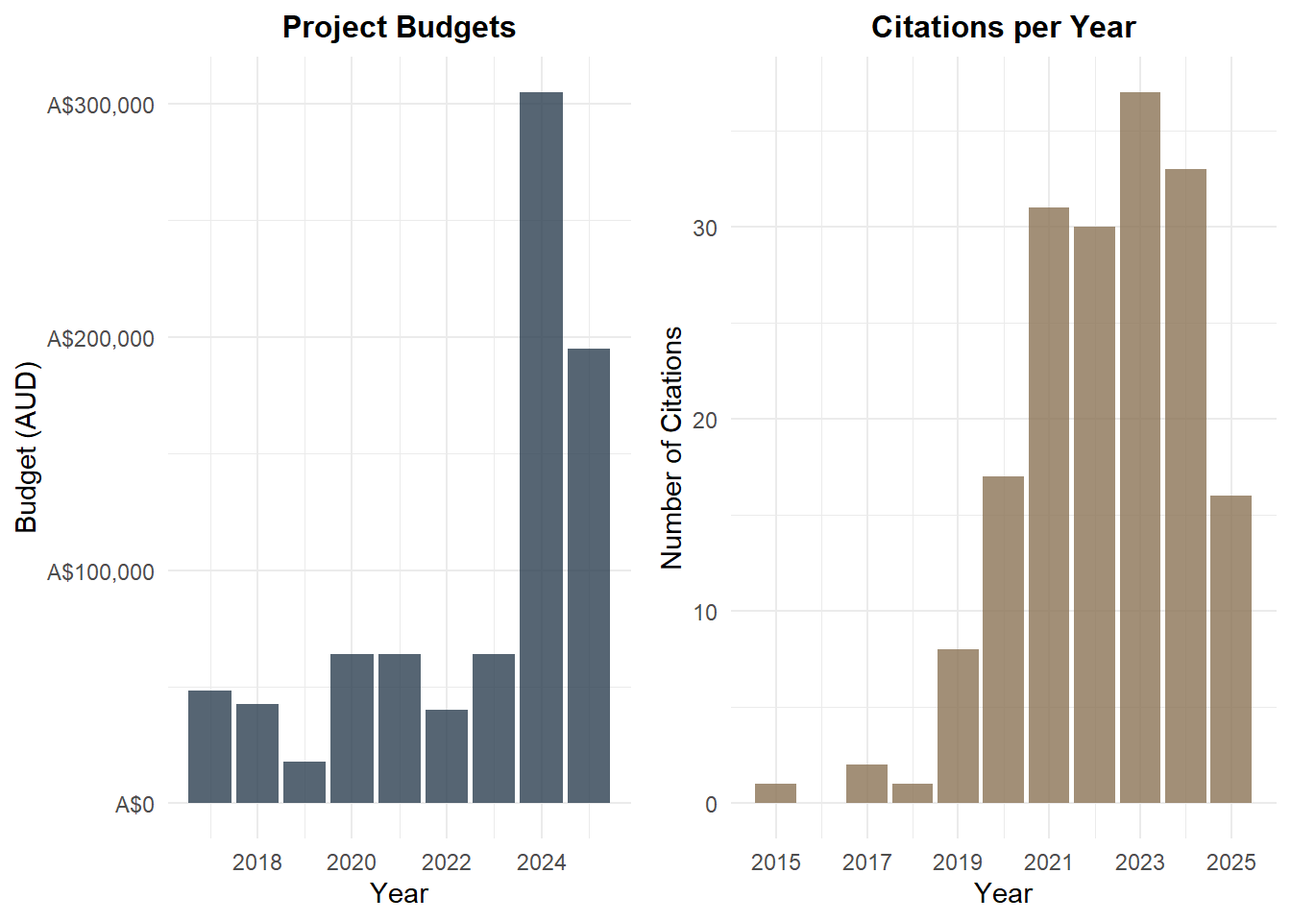
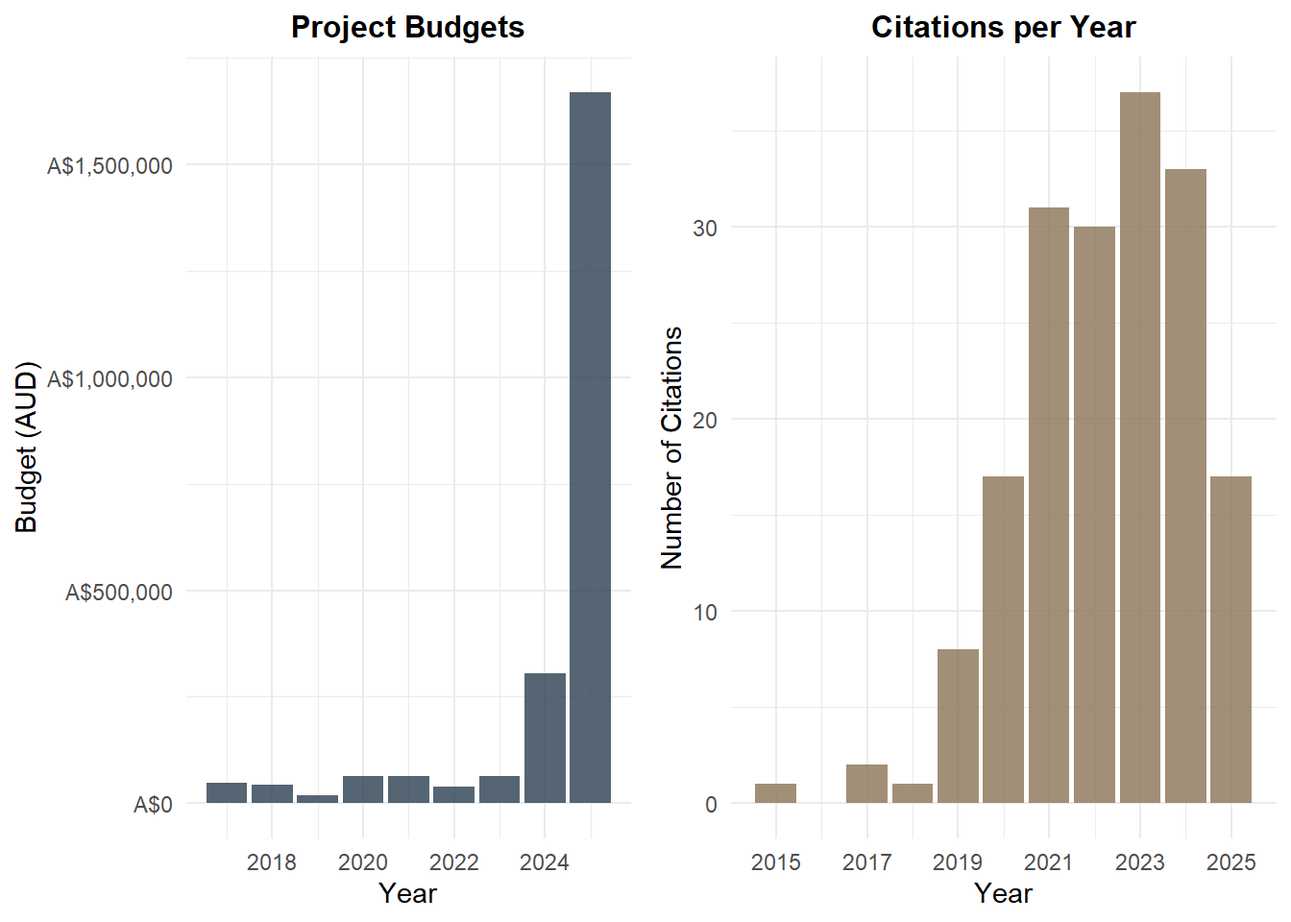
Built site for gh-pages

diff --git a/network.html b/network.html
@@ -209,8 +209,8 @@ ul.task-list li input[type="checkbox"] {
 
 <div class="cell">
 <div class="cell-output-display">
-<div class="visNetwork html-widget html-fill-item" id="htmlwidget-03346273764f3f47677d" style="width:100%;height:464px;"></div>
-<script type="application/json" data-for="htmlwidget-03346273764f3f47677d">{"x":{"nodes":{"id":["Mr  A A Md Rizwan","Dr  C Gunawardane","Prof  KU Maheswari","Dr  W Niroshan","Dr  TS Mock","Dr  T Prasad","Dr  G J G Arachchi","Dr  I Wickramasinghe","Prof  KRD De Silva","Prof  M Kjellevold","Dr  I Aakre","AsPr  DL Callahan","Prof  PHP Prasanna","Ms  A Nordhagen","Dr  A M Reksten","Dr  T Jayampathi","Dr  S H Thilsted","Dr  B Rajeswari","Prof  DS Francis","Ms  TP Hemachandra","Dr  A Bøkevoll","Dr  L M Pincus","Prof  C Jayasinghe","Prof  M Vithanage","Prof  RPNP Rajapakse","Prof  PA Paranagama","Prof C Hicks","Dr K Byrd","Prof H Schönfeldt","Prof M W Markhus","Dr S Astley","Dr R Hannisdal","Ms D Rittenschober","Dr K Fiorella","Ms M Ahern","Dr J Z Mason","Dr E Maire","Ms Y Nanjo","Dr R Ananthan","Ms S Masangwi","Prof M Steiner-Asiedu","Dr C Golden","Dr F Grande","Dr K Berk","Dr M Moulder","Prof D Lütjohann","Dr J Spanner","Dr N Liland","Dr A Cojocaru","Prof G Wiegertjes","Dr K Soma","Dr I Wijesekara","Ms F Mojarradi","Prof F Donsì","Dr C J Liyanage","Aquatic Foods","Machine Learning","EAF NANSEN Project","NARA","Master's Thesis","Ph.D. Thesis","Consultation","One Food Systems","ERASMUS Collarboration","Dr Thiru C Somasundaram","Dr Lone Hoj","Dr Deepa Varkey","Ms Sara Godinez-Espinosa","Coral nutrition","Dr W Jessie Suneetha"],"label":["Mr  A A Md Rizwan","Dr  C Gunawardane","Prof  KU Maheswari","Dr  W Niroshan","Dr  TS Mock","Dr  T Prasad","Dr  G J G Arachchi","Dr  I Wickramasinghe","Prof  KRD De Silva","Prof  M Kjellevold","Dr  I Aakre","AsPr  DL Callahan","Prof  PHP Prasanna","Ms  A Nordhagen","Dr  A M Reksten","Dr  T Jayampathi","Dr  S H Thilsted","Dr  B Rajeswari","Prof  DS Francis","Ms  TP Hemachandra","Dr  A Bøkevoll","Dr  L M Pincus","Prof  C Jayasinghe","Prof  M Vithanage","Prof  RPNP Rajapakse","Prof  PA Paranagama","Prof C Hicks","Dr K Byrd","Prof H Schönfeldt","Prof M W Markhus","Dr S Astley","Dr R Hannisdal","Ms D Rittenschober","Dr K Fiorella","Ms M Ahern","Dr J Z Mason","Dr E Maire","Ms Y Nanjo","Dr R Ananthan","Ms S Masangwi","Prof M Steiner-Asiedu","Dr C Golden","Dr F Grande","Dr K Berk","Dr M Moulder","Prof D Lütjohann","Dr J Spanner","Dr N Liland","Dr A Cojocaru","Prof G Wiegertjes","Dr K Soma","Dr I Wijesekara","Ms F Mojarradi","Prof F Donsì","Dr C J Liyanage","Aquatic Foods","Machine Learning","EAF NANSEN Project","NARA","Master's Thesis","Ph.D. Thesis","Consultation","One Food Systems","ERASMUS Collarboration","Dr Thiru C Somasundaram","Dr Lone Hoj","Dr Deepa Varkey","Ms Sara Godinez-Espinosa","Coral nutrition","Dr W Jessie Suneetha"],"color.background":["#d62728","#9467bd","#8c564b","#9467bd","#aec7e8","#8c564b","#9467bd","#9467bd","#9467bd","#d62728","#d62728","#e377c2","#9467bd","#d62728","#d62728","#9467bd","#d62728","#8c564b","#e377c2","#9467bd","#d62728","#d62728","#9467bd","#9467bd","#9467bd","#9467bd","#ff7f0e","#ff7f0e","#ff7f0e","#ff7f0e","#ff7f0e","#ff7f0e","#ff7f0e","#ff7f0e","#ff7f0e","#ff7f0e","#ff7f0e","#ff7f0e","#ff7f0e","#ff7f0e","#ff7f0e","#ff7f0e","#ff7f0e","#ff9896","#ff9896","#ff9896","#17becf","#bcbd22","#bcbd22","#bcbd22","#bcbd22","#9467bd","#2ca02c","#2ca02c","#9467bd","#ff7f0e","#2ca02c","#d62728","#9467bd","#8c564b","#e377c2","#17becf","#bcbd22","#ff9896","#1f77b4","#aec7e8","#aec7e8","#aec7e8","#aec7e8","#8c564b"],"title":["Mr  A A Md Rizwan<br>Texas Tech University<br>Colab - EAF NANSEN Project<br>Citations: 171","Dr  C Gunawardane<br>National Institute of Post Harvest Management<br>Colab - NARA<br>Citations: NA","Prof  KU Maheswari<br>Professor Jayashankar Telangana State Agricultural University<br>Colab - Master's Thesis<br>Citations: 259","Dr  W Niroshan<br>National Aquatic Resources Research and Development Agency<br>Colab - NARA<br>Citations: 275","Dr  TS Mock<br>Deakin University<br>Colab - Coral nutrition<br>Citations: 385","Dr  T Prasad<br>Acharya NG Ranga Agricultural University<br>Colab - Master's Thesis<br>Citations: 6810","Dr  G J G Arachchi<br>National Aquatic Resources Research and Development Agency<br>Colab - NARA<br>Citations: NA","Dr  I Wickramasinghe<br>Sri Jayawardenapura University of Sri Lanka<br>Colab - NARA<br>Citations: 1377","Prof  KRD De Silva<br>General Sir John Kotelawala Defence University<br>Colab - NARA<br>Citations: 1220","Prof  M Kjellevold<br>Institute of Marine Research<br>Colab - EAF NANSEN Project<br>Citations: 5914","Dr  I Aakre<br>Institute of Marine Research<br>Colab - EAF NANSEN Project<br>Citations: 1269","AsPr  DL Callahan<br>Deakin University<br>Colab - Ph.D. Thesis<br>Citations: 3907","Prof  PHP Prasanna<br>University of Peradeniya<br>Colab - NARA<br>Citations: 1213","Ms  A Nordhagen<br>Institute of Marine Research<br>Colab - EAF NANSEN Project<br>Citations: NA","Dr  A M Reksten<br>Institute of Marine Research<br>Colab - EAF NANSEN Project<br>Citations: 223","Dr  T Jayampathi<br>University of Adelaide<br>Colab - NARA<br>Citations: 60","Dr  S H Thilsted<br>Consultative Group for International Agricultural Research<br>Colab - EAF NANSEN Project<br>Citations: 11618","Dr  B Rajeswari<br>Professor Jayashankar Telangana State Agricultural University<br>Colab - Master's Thesis<br>Citations: NA","Prof  DS Francis<br>Deakin University<br>Colab - Ph.D. Thesis<br>Citations: 4917","Ms  TP Hemachandra<br>University of Houston<br>Colab - NARA<br>Citations: NA","Dr  A Bøkevoll<br>Institute of Marine Research<br>Colab - EAF NANSEN Project<br>Citations: NA","Dr  L M Pincus<br>World Fish<br>Colab - EAF NANSEN Project<br>Citations: NA","Prof  C Jayasinghe<br>Wayamba University of Sri Lanka<br>Colab - NARA<br>Citations: 1461","Prof  M Vithanage<br>University of Sri Jayewardenepura<br>Colab - NARA<br>Citations: 30816","Prof  RPNP Rajapakse<br>University of Peradeniya<br>Colab - NARA<br>Citations: 7332","Prof  PA Paranagama<br>University of Kelaniya<br>Colab - NARA<br>Citations: 3002","Prof C Hicks<br>Lancaster University<br>Colab - Aquatic Foods<br>Citations: 12727","Dr K Byrd<br>Greenwich University<br>Colab - Aquatic Foods<br>Citations: 897","Prof H Schönfeldt<br>University of Pretoria<br>Colab - Aquatic Foods<br>Citations: 4626","Prof M W Markhus<br>Institute of Marine Research<br>Colab - Aquatic Foods<br>Citations: 1410","Dr S Astley<br>EuroFIR<br>Colab - Aquatic Foods<br>Citations: NA","Dr R Hannisdal<br>Institute of Marine Research<br>Colab - Aquatic Foods<br>Citations: 1180","Ms D Rittenschober<br>Food and Agriculture Organization of the United Nations<br>Colab - Aquatic Foods<br>Citations: NA","Dr K Fiorella<br>Cornell University<br>Colab - Aquatic Foods<br>Citations: 2482","Ms M Ahern<br>Food and Agriculture Organization of the United Nations<br>Colab - Aquatic Foods<br>Citations: 418","Dr J Z Mason<br>Harvard T.H. Chan School of Public Health<br>Colab - Aquatic Foods<br>Citations: 678","Dr E Maire<br>French National Research Institute for Sustainable Development (IRD)<br>Colab - Aquatic Foods<br>Citations: 3134","Ms Y Nanjo<br>Food and Agriculture Organization of the United Nations<br>Colab - Aquatic Foods<br>Citations: NA","Dr R Ananthan<br>National Institure of Nutrition<br>Colab - Aquatic Foods<br>Citations: 2825","Ms S Masangwi<br>Lilongwe University of Agriculture and Natural Resources<br>Colab - Aquatic Foods<br>Citations: NA","Prof M Steiner-Asiedu<br>University of Ghana<br>Colab - Aquatic Foods<br>Citations: 551","Dr C Golden<br>Harvard T.H. Chan School of Public Health<br>Colab - Aquatic Foods<br>Citations: 15757","Dr F Grande<br>Food and Agriculture Organization of the United Nations<br>Colab - Aquatic Foods<br>Citations: NA","Dr K Berk<br>Erasmus Medical Centre<br>Colab - ERASMUS Collarboration<br>Citations: 406","Dr M Moulder<br>Erasmus Medical Centre<br>Colab - ERASMUS Collarboration<br>Citations: 6030","Prof D Lütjohann<br>Bonn University<br>Colab - ERASMUS Collarboration<br>Citations: 28920","Dr J Spanner<br>Focus Pvt Ltd<br>Colab - Consultation<br>Citations: NA","Dr N Liland<br>Institute of Marine Research<br>Colab - One Food Systems<br>Citations: 3096","Dr A Cojocaru<br>University of Stavanger<br>Colab - One Food Systems<br>Citations: 961","Prof G Wiegertjes<br>Wageningen University<br>Colab - One Food Systems<br>Citations: 7537","Dr K Soma<br>Wageningen University<br>Colab - One Food Systems<br>Citations: 2106","Dr I Wijesekara<br>Sri Jayawardenapura University of Sri Lanka<br>Colab - NARA<br>Citations: 6019","Ms F Mojarradi<br>University of Salerno<br>Colab - Machine Learning<br>Citations: 12","Prof F Donsì<br>University of Salerno<br>Colab - Machine Learning<br>Citations: 10287","Dr C J Liyanage<br>BOKU University<br>Colab - NARA<br>Citations: 32","Aquatic Foods","Machine Learning","EAF NANSEN Project","NARA","Master's Thesis","Ph.D. Thesis","Consultation","One Food Systems","ERASMUS Collarboration","Dr Thiru C Somasundaram<br>Deakin University<br>Colab - Main<br>Citations: 177","Dr Lone Hoj<br>AIMS<br>Colab - Coral nutrition<br>Citations: 1889","Dr Deepa Varkey<br>AIMS<br>Colab - Coral nutrition<br>Citations: 421","Ms Sara Godinez-Espinosa<br>AIMS<br>Colab - Coral nutrition<br>Citations: NA","Coral nutrition","Dr W Jessie Suneetha<br>Professor Jayashankar Telangana State Agricultural University<br>Colab - Master's Thesis<br>Citations: 454"],"font.size":[30,30,30,30,30,30,30,30,30,30,30,30,30,30,30,30,30,30,30,30,30,30,30,30,30,30,30,30,30,30,30,30,30,30,30,30,30,30,30,30,30,30,30,30,30,30,30,30,30,30,30,30,30,30,30,40,40,40,40,40,40,40,40,40,40,30,30,30,40,30],"size":[25,25,25,25,25,25,25,25,25,25,25,25,25,25,25,25,25,25,25,25,25,25,25,25,25,25,25,25,25,25,25,25,25,25,25,25,25,25,25,25,25,25,25,25,25,25,25,25,25,25,25,25,25,25,25,40,40,40,40,40,40,40,40,40,40,25,25,25,40,25]},"edges":{"from":["Aquatic Foods","Aquatic Foods","Aquatic Foods","Aquatic Foods","Aquatic Foods","Aquatic Foods","Aquatic Foods","Aquatic Foods","Aquatic Foods","Aquatic Foods","Aquatic Foods","Aquatic Foods","Aquatic Foods","Aquatic Foods","Aquatic Foods","Aquatic Foods","Aquatic Foods","Consultation","ERASMUS Collarboration","ERASMUS Collarboration","ERASMUS Collarboration","Machine Learning","Machine Learning","Master's Thesis","Master's Thesis","Master's Thesis","Master's Thesis","EAF NANSEN Project","EAF NANSEN Project","EAF NANSEN Project","EAF NANSEN Project","EAF NANSEN Project","EAF NANSEN Project","EAF NANSEN Project","EAF NANSEN Project","NARA","NARA","NARA","NARA","NARA","NARA","NARA","NARA","NARA","NARA","NARA","NARA","NARA","NARA","One Food Systems","One Food Systems","One Food Systems","One Food Systems","Ph.D. Thesis","Ph.D. Thesis","Dr Thiru C Somasundaram","Dr Thiru C Somasundaram","Dr Thiru C Somasundaram","Dr Thiru C Somasundaram","Dr Thiru C Somasundaram","Dr Thiru C Somasundaram","Dr Thiru C Somasundaram","Dr Thiru C Somasundaram","Dr Thiru C Somasundaram","Dr Thiru C Somasundaram","Prof  M Kjellevold","Dr K Berk","Dr M Moulder","Dr  S H Thilsted","Prof  DS Francis","Coral nutrition","Coral nutrition","Coral nutrition","Coral nutrition"],"to":["Prof C Hicks","Dr K Byrd","Prof H Schönfeldt","Prof M W Markhus","Dr S Astley","Dr R Hannisdal","Ms D Rittenschober","Dr K Fiorella","Ms M Ahern","Dr J Z Mason","Dr E Maire","Ms Y Nanjo","Dr R Ananthan","Ms S Masangwi","Prof M Steiner-Asiedu","Dr C Golden","Dr F Grande","Dr J Spanner","Dr K Berk","Dr M Moulder","Prof D Lütjohann","Ms F Mojarradi","Prof F Donsì","Prof  KU Maheswari","Dr  T Prasad","Dr  B Rajeswari","Dr W Jessie Suneetha","Mr  A A Md Rizwan","Prof  M Kjellevold","Dr  I Aakre","Ms  A Nordhagen","Dr  A M Reksten","Dr  S H Thilsted","Dr  A Bøkevoll","Dr  L M Pincus","Dr  C Gunawardane","Dr  W Niroshan","Dr  G J G Arachchi","Dr  I Wickramasinghe","Prof  KRD De Silva","Prof  PHP Prasanna","Dr  T Jayampathi","Ms  TP Hemachandra","Prof  C Jayasinghe","Prof  M Vithanage","Prof  RPNP Rajapakse","Prof  PA Paranagama","Dr I Wijesekara","Dr C J Liyanage","Dr N Liland","Dr A Cojocaru","Prof G Wiegertjes","Dr K Soma","AsPr  DL Callahan","Prof  DS Francis","EAF NANSEN Project","NARA","Master's Thesis","Coral nutrition","Ph.D. Thesis","Aquatic Foods","ERASMUS Collarboration","Consultation","One Food Systems","Machine Learning","Aquatic Foods","Aquatic Foods","Aquatic Foods","Aquatic Foods","Coral nutrition","Dr  TS Mock","Dr Lone Hoj","Dr Deepa Varkey","Ms Sara Godinez-Espinosa"]},"nodesToDataframe":true,"edgesToDataframe":true,"options":{"nodes":{"shape":"dot"},"manipulation":{"enabled":false},"height":"100%","width":"100%","physics":{"solver":"forceAtlas2Based","maxVelocity":30,"timestep":0.35,"stabilization":true,"forceAtlas2Based":{"gravitationalConstant":-200,"centralGravity":0.01,"springLength":200,"springConstant":0.08,"damping":0.4}},"layout":{"randomSeed":123},"interaction":{"hover":true,"zoomSpeed":1},"edges":{"width":1.5,"color":"#666666","smooth":true}},"groups":null,"width":null,"height":null,"idselection":{"enabled":false,"style":"width: 150px; height: 26px","useLabels":true,"main":"Select by id"},"byselection":{"enabled":false,"style":"width: 150px; height: 26px","multiple":false,"hideColor":"rgba(200,200,200,0.5)","highlight":false},"main":null,"submain":null,"footer":null,"background":"rgba(0, 0, 0, 0)","highlight":{"enabled":false,"hoverNearest":false,"degree":1,"algorithm":"all","hideColor":"rgba(200,200,200,0.5)","labelOnly":true},"collapse":{"enabled":false,"fit":false,"resetHighlight":true,"clusterOptions":null,"keepCoord":true,"labelSuffix":"(cluster)"},"tooltipStay":300,"tooltipStyle":"position: fixed;visibility:hidden;padding: 5px;white-space: nowrap;font-family: verdana;font-size:14px;font-color:#000000;background-color: #f5f4ed;-moz-border-radius: 3px;-webkit-border-radius: 3px;border-radius: 3px;border: 1px solid #808074;box-shadow: 3px 3px 10px rgba(0, 0, 0, 0.2);"},"evals":[],"jsHooks":{"render":[{"code":"\n    function(el, x) {\n      el.parentNode.style.width = '1050px';\n      el.parentNode.style.height = '1000px';\n      el.parentNode.classList.add('plot-container');\n    }\n  ","data":null}]}}</script>
+<div class="visNetwork html-widget html-fill-item" id="htmlwidget-ef478e9d7f88204e1680" style="width:100%;height:464px;"></div>
+<script type="application/json" data-for="htmlwidget-ef478e9d7f88204e1680">{"x":{"nodes":{"id":["Mr  A A Md Rizwan","Dr  C Gunawardane","Prof  KU Maheswari","Dr  W Niroshan","Dr  TS Mock","Dr  T Prasad","Dr  G J G Arachchi","Dr  I Wickramasinghe","Prof  KRD De Silva","Prof  M Kjellevold","Dr  I Aakre","AsPr  DL Callahan","Prof  PHP Prasanna","Ms  A Nordhagen","Dr  A M Reksten","Dr  T Jayampathi","Dr  S H Thilsted","Dr  B Rajeswari","Prof  DS Francis","Ms  TP Hemachandra","Dr  A Bøkevoll","Dr  L M Pincus","Prof  C Jayasinghe","Prof  M Vithanage","Prof  RPNP Rajapakse","Prof  PA Paranagama","Prof C Hicks","Dr K Byrd","Prof H Schönfeldt","Prof M W Markhus","Dr S Astley","Dr R Hannisdal","Ms D Rittenschober","Dr K Fiorella","Ms M Ahern","Dr J Z Mason","Dr E Maire","Ms Y Nanjo","Dr R Ananthan","Ms S Masangwi","Prof M Steiner-Asiedu","Dr C Golden","Dr F Grande","Dr K Berk","Dr M Moulder","Prof D Lütjohann","Dr J Spanner","Dr N Liland","Dr A Cojocaru","Prof G Wiegertjes","Dr K Soma","Dr I Wijesekara","Ms F Mojarradi","Prof F Donsì","Dr C J Liyanage","Aquatic Foods","Machine Learning","EAF NANSEN Project","NARA","Master's Thesis","Ph.D. Thesis","Consultation","One Food Systems","ERASMUS Collarboration","Dr Thiru C Somasundaram","Dr Lone Hoj","Dr Deepa Varkey","Ms Sara Godinez-Espinosa","Coral nutrition","Dr W Jessie Suneetha"],"label":["Mr  A A Md Rizwan","Dr  C Gunawardane","Prof  KU Maheswari","Dr  W Niroshan","Dr  TS Mock","Dr  T Prasad","Dr  G J G Arachchi","Dr  I Wickramasinghe","Prof  KRD De Silva","Prof  M Kjellevold","Dr  I Aakre","AsPr  DL Callahan","Prof  PHP Prasanna","Ms  A Nordhagen","Dr  A M Reksten","Dr  T Jayampathi","Dr  S H Thilsted","Dr  B Rajeswari","Prof  DS Francis","Ms  TP Hemachandra","Dr  A Bøkevoll","Dr  L M Pincus","Prof  C Jayasinghe","Prof  M Vithanage","Prof  RPNP Rajapakse","Prof  PA Paranagama","Prof C Hicks","Dr K Byrd","Prof H Schönfeldt","Prof M W Markhus","Dr S Astley","Dr R Hannisdal","Ms D Rittenschober","Dr K Fiorella","Ms M Ahern","Dr J Z Mason","Dr E Maire","Ms Y Nanjo","Dr R Ananthan","Ms S Masangwi","Prof M Steiner-Asiedu","Dr C Golden","Dr F Grande","Dr K Berk","Dr M Moulder","Prof D Lütjohann","Dr J Spanner","Dr N Liland","Dr A Cojocaru","Prof G Wiegertjes","Dr K Soma","Dr I Wijesekara","Ms F Mojarradi","Prof F Donsì","Dr C J Liyanage","Aquatic Foods","Machine Learning","EAF NANSEN Project","NARA","Master's Thesis","Ph.D. Thesis","Consultation","One Food Systems","ERASMUS Collarboration","Dr Thiru C Somasundaram","Dr Lone Hoj","Dr Deepa Varkey","Ms Sara Godinez-Espinosa","Coral nutrition","Dr W Jessie Suneetha"],"color.background":["#d62728","#9467bd","#8c564b","#9467bd","#aec7e8","#8c564b","#9467bd","#9467bd","#9467bd","#d62728","#d62728","#e377c2","#9467bd","#d62728","#d62728","#9467bd","#d62728","#8c564b","#e377c2","#9467bd","#d62728","#d62728","#9467bd","#9467bd","#9467bd","#9467bd","#ff7f0e","#ff7f0e","#ff7f0e","#ff7f0e","#ff7f0e","#ff7f0e","#ff7f0e","#ff7f0e","#ff7f0e","#ff7f0e","#ff7f0e","#ff7f0e","#ff7f0e","#ff7f0e","#ff7f0e","#ff7f0e","#ff7f0e","#ff9896","#ff9896","#ff9896","#17becf","#bcbd22","#bcbd22","#bcbd22","#bcbd22","#9467bd","#2ca02c","#2ca02c","#9467bd","#ff7f0e","#2ca02c","#d62728","#9467bd","#8c564b","#e377c2","#17becf","#bcbd22","#ff9896","#1f77b4","#aec7e8","#aec7e8","#aec7e8","#aec7e8","#8c564b"],"title":["Mr  A A Md Rizwan<br>Texas Tech University<br>Colab - EAF NANSEN Project<br>Citations: 172","Dr  C Gunawardane<br>National Institute of Post Harvest Management<br>Colab - NARA<br>Citations: NA","Prof  KU Maheswari<br>Professor Jayashankar Telangana State Agricultural University<br>Colab - Master's Thesis<br>Citations: 259","Dr  W Niroshan<br>National Aquatic Resources Research and Development Agency<br>Colab - NARA<br>Citations: 275","Dr  TS Mock<br>Deakin University<br>Colab - Coral nutrition<br>Citations: 385","Dr  T Prasad<br>Acharya NG Ranga Agricultural University<br>Colab - Master's Thesis<br>Citations: 6823","Dr  G J G Arachchi<br>National Aquatic Resources Research and Development Agency<br>Colab - NARA<br>Citations: NA","Dr  I Wickramasinghe<br>Sri Jayawardenapura University of Sri Lanka<br>Colab - NARA<br>Citations: 1380","Prof  KRD De Silva<br>General Sir John Kotelawala Defence University<br>Colab - NARA<br>Citations: 1223","Prof  M Kjellevold<br>Institute of Marine Research<br>Colab - EAF NANSEN Project<br>Citations: 5923","Dr  I Aakre<br>Institute of Marine Research<br>Colab - EAF NANSEN Project<br>Citations: 1272","AsPr  DL Callahan<br>Deakin University<br>Colab - Ph.D. Thesis<br>Citations: 3917","Prof  PHP Prasanna<br>University of Peradeniya<br>Colab - NARA<br>Citations: 1214","Ms  A Nordhagen<br>Institute of Marine Research<br>Colab - EAF NANSEN Project<br>Citations: NA","Dr  A M Reksten<br>Institute of Marine Research<br>Colab - EAF NANSEN Project<br>Citations: 224","Dr  T Jayampathi<br>University of Adelaide<br>Colab - NARA<br>Citations: 60","Dr  S H Thilsted<br>Consultative Group for International Agricultural Research<br>Colab - EAF NANSEN Project<br>Citations: 11618","Dr  B Rajeswari<br>Professor Jayashankar Telangana State Agricultural University<br>Colab - Master's Thesis<br>Citations: NA","Prof  DS Francis<br>Deakin University<br>Colab - Ph.D. Thesis<br>Citations: 4928","Ms  TP Hemachandra<br>University of Houston<br>Colab - NARA<br>Citations: NA","Dr  A Bøkevoll<br>Institute of Marine Research<br>Colab - EAF NANSEN Project<br>Citations: NA","Dr  L M Pincus<br>World Fish<br>Colab - EAF NANSEN Project<br>Citations: NA","Prof  C Jayasinghe<br>Wayamba University of Sri Lanka<br>Colab - NARA<br>Citations: 1463","Prof  M Vithanage<br>University of Sri Jayewardenepura<br>Colab - NARA<br>Citations: 30877","Prof  RPNP Rajapakse<br>University of Peradeniya<br>Colab - NARA<br>Citations: 7335","Prof  PA Paranagama<br>University of Kelaniya<br>Colab - NARA<br>Citations: 3009","Prof C Hicks<br>Lancaster University<br>Colab - Aquatic Foods<br>Citations: 12757","Dr K Byrd<br>Greenwich University<br>Colab - Aquatic Foods<br>Citations: 902","Prof H Schönfeldt<br>University of Pretoria<br>Colab - Aquatic Foods<br>Citations: 4639","Prof M W Markhus<br>Institute of Marine Research<br>Colab - Aquatic Foods<br>Citations: 1411","Dr S Astley<br>EuroFIR<br>Colab - Aquatic Foods<br>Citations: NA","Dr R Hannisdal<br>Institute of Marine Research<br>Colab - Aquatic Foods<br>Citations: 1184","Ms D Rittenschober<br>Food and Agriculture Organization of the United Nations<br>Colab - Aquatic Foods<br>Citations: NA","Dr K Fiorella<br>Cornell University<br>Colab - Aquatic Foods<br>Citations: 2496","Ms M Ahern<br>Food and Agriculture Organization of the United Nations<br>Colab - Aquatic Foods<br>Citations: 420","Dr J Z Mason<br>Harvard T.H. Chan School of Public Health<br>Colab - Aquatic Foods<br>Citations: 678","Dr E Maire<br>French National Research Institute for Sustainable Development (IRD)<br>Colab - Aquatic Foods<br>Citations: 3142","Ms Y Nanjo<br>Food and Agriculture Organization of the United Nations<br>Colab - Aquatic Foods<br>Citations: NA","Dr R Ananthan<br>National Institure of Nutrition<br>Colab - Aquatic Foods<br>Citations: 2831","Ms S Masangwi<br>Lilongwe University of Agriculture and Natural Resources<br>Colab - Aquatic Foods<br>Citations: NA","Prof M Steiner-Asiedu<br>University of Ghana<br>Colab - Aquatic Foods<br>Citations: 551","Dr C Golden<br>Harvard T.H. Chan School of Public Health<br>Colab - Aquatic Foods<br>Citations: 15795","Dr F Grande<br>Food and Agriculture Organization of the United Nations<br>Colab - Aquatic Foods<br>Citations: NA","Dr K Berk<br>Erasmus Medical Centre<br>Colab - ERASMUS Collarboration<br>Citations: 411","Dr M Moulder<br>Erasmus Medical Centre<br>Colab - ERASMUS Collarboration<br>Citations: 6033","Prof D Lütjohann<br>Bonn University<br>Colab - ERASMUS Collarboration<br>Citations: 28920","Dr J Spanner<br>Focus Pvt Ltd<br>Colab - Consultation<br>Citations: NA","Dr N Liland<br>Institute of Marine Research<br>Colab - One Food Systems<br>Citations: 3100","Dr A Cojocaru<br>University of Stavanger<br>Colab - One Food Systems<br>Citations: 959","Prof G Wiegertjes<br>Wageningen University<br>Colab - One Food Systems<br>Citations: 7537","Dr K Soma<br>Wageningen University<br>Colab - One Food Systems<br>Citations: 2108","Dr I Wijesekara<br>Sri Jayawardenapura University of Sri Lanka<br>Colab - NARA<br>Citations: 6025","Ms F Mojarradi<br>University of Salerno<br>Colab - Machine Learning<br>Citations: 12","Prof F Donsì<br>University of Salerno<br>Colab - Machine Learning<br>Citations: 10304","Dr C J Liyanage<br>BOKU University<br>Colab - NARA<br>Citations: 32","Aquatic Foods","Machine Learning","EAF NANSEN Project","NARA","Master's Thesis","Ph.D. Thesis","Consultation","One Food Systems","ERASMUS Collarboration","Dr Thiru C Somasundaram<br>Deakin University<br>Colab - Main<br>Citations: 178","Dr Lone Hoj<br>AIMS<br>Colab - Coral nutrition<br>Citations: 1892","Dr Deepa Varkey<br>AIMS<br>Colab - Coral nutrition<br>Citations: 421","Ms Sara Godinez-Espinosa<br>AIMS<br>Colab - Coral nutrition<br>Citations: NA","Coral nutrition","Dr W Jessie Suneetha<br>Professor Jayashankar Telangana State Agricultural University<br>Colab - Master's Thesis<br>Citations: 457"],"font.size":[30,30,30,30,30,30,30,30,30,30,30,30,30,30,30,30,30,30,30,30,30,30,30,30,30,30,30,30,30,30,30,30,30,30,30,30,30,30,30,30,30,30,30,30,30,30,30,30,30,30,30,30,30,30,30,40,40,40,40,40,40,40,40,40,40,30,30,30,40,30],"size":[25,25,25,25,25,25,25,25,25,25,25,25,25,25,25,25,25,25,25,25,25,25,25,25,25,25,25,25,25,25,25,25,25,25,25,25,25,25,25,25,25,25,25,25,25,25,25,25,25,25,25,25,25,25,25,40,40,40,40,40,40,40,40,40,40,25,25,25,40,25]},"edges":{"from":["Aquatic Foods","Aquatic Foods","Aquatic Foods","Aquatic Foods","Aquatic Foods","Aquatic Foods","Aquatic Foods","Aquatic Foods","Aquatic Foods","Aquatic Foods","Aquatic Foods","Aquatic Foods","Aquatic Foods","Aquatic Foods","Aquatic Foods","Aquatic Foods","Aquatic Foods","Consultation","ERASMUS Collarboration","ERASMUS Collarboration","ERASMUS Collarboration","Machine Learning","Machine Learning","Master's Thesis","Master's Thesis","Master's Thesis","Master's Thesis","EAF NANSEN Project","EAF NANSEN Project","EAF NANSEN Project","EAF NANSEN Project","EAF NANSEN Project","EAF NANSEN Project","EAF NANSEN Project","EAF NANSEN Project","NARA","NARA","NARA","NARA","NARA","NARA","NARA","NARA","NARA","NARA","NARA","NARA","NARA","NARA","One Food Systems","One Food Systems","One Food Systems","One Food Systems","Ph.D. Thesis","Ph.D. Thesis","Dr Thiru C Somasundaram","Dr Thiru C Somasundaram","Dr Thiru C Somasundaram","Dr Thiru C Somasundaram","Dr Thiru C Somasundaram","Dr Thiru C Somasundaram","Dr Thiru C Somasundaram","Dr Thiru C Somasundaram","Dr Thiru C Somasundaram","Dr Thiru C Somasundaram","Prof  M Kjellevold","Dr K Berk","Dr M Moulder","Dr  S H Thilsted","Prof  DS Francis","Coral nutrition","Coral nutrition","Coral nutrition","Coral nutrition"],"to":["Prof C Hicks","Dr K Byrd","Prof H Schönfeldt","Prof M W Markhus","Dr S Astley","Dr R Hannisdal","Ms D Rittenschober","Dr K Fiorella","Ms M Ahern","Dr J Z Mason","Dr E Maire","Ms Y Nanjo","Dr R Ananthan","Ms S Masangwi","Prof M Steiner-Asiedu","Dr C Golden","Dr F Grande","Dr J Spanner","Dr K Berk","Dr M Moulder","Prof D Lütjohann","Ms F Mojarradi","Prof F Donsì","Prof  KU Maheswari","Dr  T Prasad","Dr  B Rajeswari","Dr W Jessie Suneetha","Mr  A A Md Rizwan","Prof  M Kjellevold","Dr  I Aakre","Ms  A Nordhagen","Dr  A M Reksten","Dr  S H Thilsted","Dr  A Bøkevoll","Dr  L M Pincus","Dr  C Gunawardane","Dr  W Niroshan","Dr  G J G Arachchi","Dr  I Wickramasinghe","Prof  KRD De Silva","Prof  PHP Prasanna","Dr  T Jayampathi","Ms  TP Hemachandra","Prof  C Jayasinghe","Prof  M Vithanage","Prof  RPNP Rajapakse","Prof  PA Paranagama","Dr I Wijesekara","Dr C J Liyanage","Dr N Liland","Dr A Cojocaru","Prof G Wiegertjes","Dr K Soma","AsPr  DL Callahan","Prof  DS Francis","EAF NANSEN Project","NARA","Master's Thesis","Coral nutrition","Ph.D. Thesis","Aquatic Foods","ERASMUS Collarboration","Consultation","One Food Systems","Machine Learning","Aquatic Foods","Aquatic Foods","Aquatic Foods","Aquatic Foods","Coral nutrition","Dr  TS Mock","Dr Lone Hoj","Dr Deepa Varkey","Ms Sara Godinez-Espinosa"]},"nodesToDataframe":true,"edgesToDataframe":true,"options":{"nodes":{"shape":"dot"},"manipulation":{"enabled":false},"height":"100%","width":"100%","physics":{"solver":"forceAtlas2Based","maxVelocity":30,"timestep":0.35,"stabilization":true,"forceAtlas2Based":{"gravitationalConstant":-200,"centralGravity":0.01,"springLength":200,"springConstant":0.08,"damping":0.4}},"layout":{"randomSeed":123},"interaction":{"hover":true,"zoomSpeed":1},"edges":{"width":1.5,"color":"#666666","smooth":true}},"groups":null,"width":null,"height":null,"idselection":{"enabled":false,"style":"width: 150px; height: 26px","useLabels":true,"main":"Select by id"},"byselection":{"enabled":false,"style":"width: 150px; height: 26px","multiple":false,"hideColor":"rgba(200,200,200,0.5)","highlight":false},"main":null,"submain":null,"footer":null,"background":"rgba(0, 0, 0, 0)","highlight":{"enabled":false,"hoverNearest":false,"degree":1,"algorithm":"all","hideColor":"rgba(200,200,200,0.5)","labelOnly":true},"collapse":{"enabled":false,"fit":false,"resetHighlight":true,"clusterOptions":null,"keepCoord":true,"labelSuffix":"(cluster)"},"tooltipStay":300,"tooltipStyle":"position: fixed;visibility:hidden;padding: 5px;white-space: nowrap;font-family: verdana;font-size:14px;font-color:#000000;background-color: #f5f4ed;-moz-border-radius: 3px;-webkit-border-radius: 3px;border-radius: 3px;border: 1px solid #808074;box-shadow: 3px 3px 10px rgba(0, 0, 0, 0.2);"},"evals":[],"jsHooks":{"render":[{"code":"\n    function(el, x) {\n      el.parentNode.style.width = '1050px';\n      el.parentNode.style.height = '1000px';\n      el.parentNode.classList.add('plot-container');\n    }\n  ","data":null}]}}</script>
 </div>
 </div>
 

diff --git a/Professional.html b/Professional.html
@@ -218,8 +218,8 @@ ul.task-list li input[type="checkbox"] {
 <div class="column" style="width:25%;">
 <p>February 2025 - current</p>
 </div><div class="column" style="width:75%;">
-<p><strong>Research assistant</strong>, Nutrition and Seafood Laboratory (<a href="https://lab.org.au/">NuSea.Lab</a>), Deakin University (Deakin Marine) at Queenscliff, Victoria 3225, Australia. As a <a href="https://lab.org.au/dr-thiru-somasundaram/">research assistant</a> I am involved in analysing samples for nutrient contents and analyse data and write scientific manuscripts. In addition, I also help students in solving problems in their Ph.D.&nbsp;research</p>
-<p>Project cost ~ A$ counting…</p>
+<p><strong>Research assistant</strong>, Nutrition and Seafood Laboratory (<a href="https://lab.org.au/">NuSea.Lab</a>), Deakin University (Deakin Marine) at Queenscliff, Victoria 3225, Australia. As a <a href="https://lab.org.au/dr-thiru-somasundaram/">research assistant</a> I am involved in abalone aquacuture research which involves abalone culture and biochemical analysis</p>
+<p>Project cost ~ A$ 650,000</p>
 </div>
 </div>
 <div class="columns">

diff --git a/diet_calculator.html b/diet_calculator.html
@@ -221,7 +221,7 @@ ul.task-list li input[type="checkbox"] {
 <div class="cell">
 <div class="cell-output cell-output-stderr">
 <pre><code>
-Listening on http://127.0.0.1:3325</code></pre>
+Listening on http://127.0.0.1:8386</code></pre>
 </div>
 <div class="cell-output-display">
 <p><img src="diet_calculator_files/figure-html/unnamed-chunk-1-1.png" class="img-fluid" width="672"></p>
